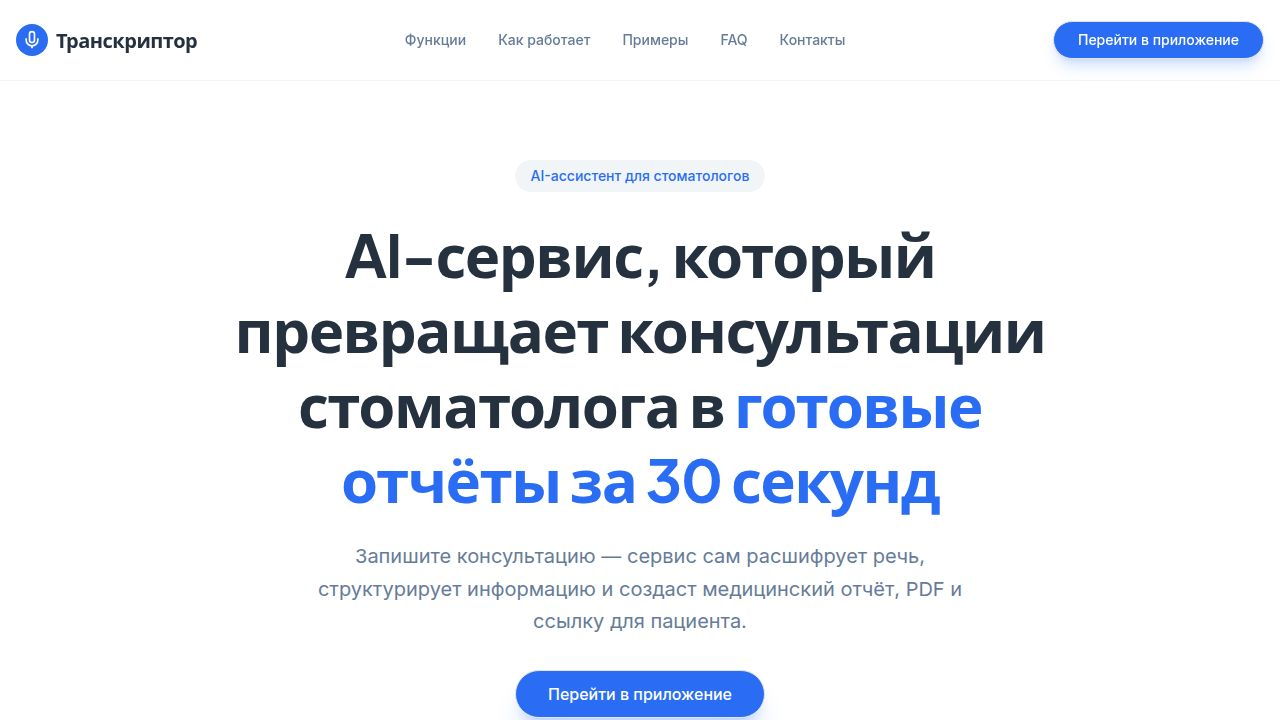
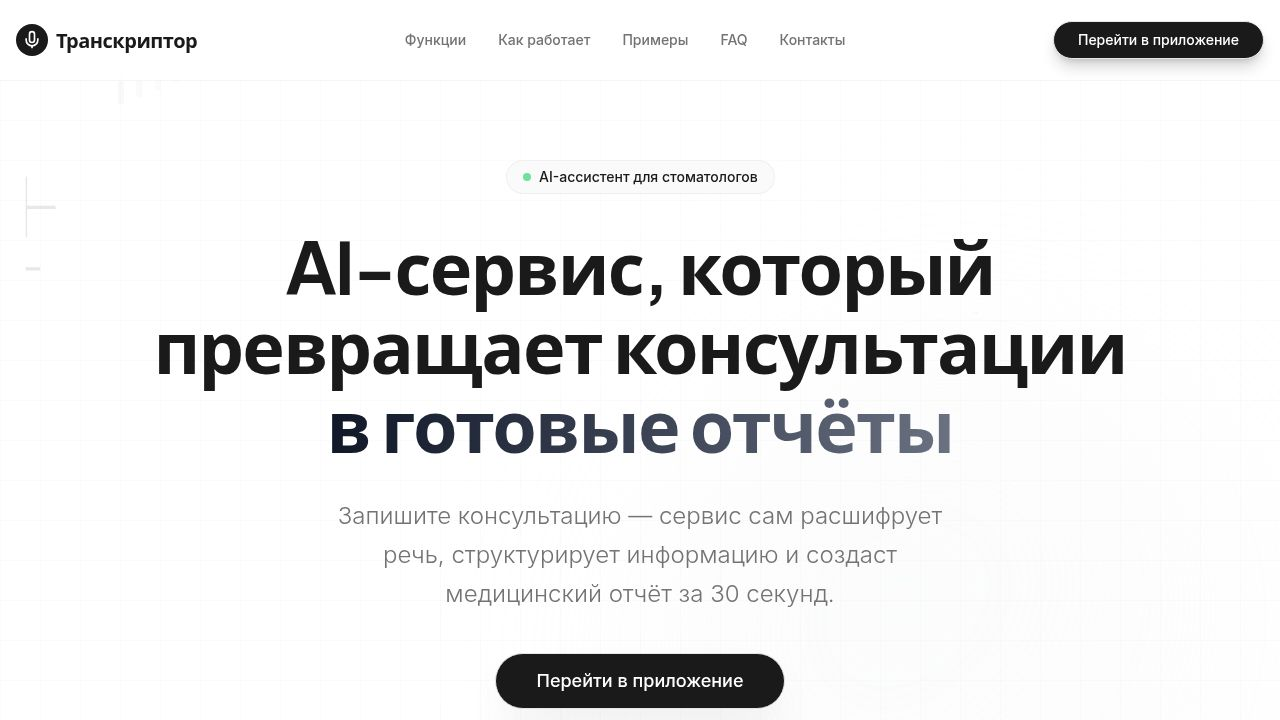
Add a large animated audio visualization behind the headline
Replaces a small decorative element with a full-width animated graphic representing audio input and AI data flow, styled with monochrome transparency.

Replit-Commit-Author: Agent
Replit-Commit-Session-Id: 5e15dced-e785-4765-9f0b-f0109551193c
Replit-Commit-Checkpoint-Type: full_checkpoint
Replit-Commit-Event-Id: 96bfdabc-855d-42f6-8e2f-6d3a9303065f
Replit-Commit-Screenshot-Url: https://storage.googleapis.com/screenshot-production-us-central1/eeb8d4c4-7ec0-4b03-830f-3e964ba1e5f5/5e15dced-e785-4765-9f0b-f0109551193c/WAJrBNJ
Replit-Helium-Checkpoint-Created: true

diff --git a/client/src/components/landing/Hero.tsx b/client/src/components/landing/Hero.tsx
@@ -39,7 +39,120 @@ export default function Hero() {
               AI-ассистент для стоматологов
             </motion.div>
             
-            <div className="relative inline-block">
+            <div className="relative inline-block w-full">
+              {/* Massive Background Element - Audio/AI Fusion */}
+              <div className="absolute top-1/2 left-1/2 -translate-x-1/2 -translate-y-1/2 w-[120%] h-[300%] pointer-events-none -z-10 flex items-center justify-center opacity-40 md:opacity-100">
+                <svg viewBox="0 0 800 400" className="w-full h-full text-primary/5">
+                  <defs>
+                    <linearGradient id="waveGradient" x1="0" y1="0" x2="1" y2="0">
+                      <stop offset="0%" stopColor="currentColor" stopOpacity="0" />
+                      <stop offset="50%" stopColor="currentColor" stopOpacity="1" />
+                      <stop offset="100%" stopColor="currentColor" stopOpacity="0" />
+                    </linearGradient>
+                    <mask id="fadeMask">
+                       <rect x="0" y="0" width="800" height="400" fill="url(#waveGradient)" />
+                    </mask>
+                  </defs>
+                  
+                  {/* Abstract Microphone Shape - Central Pillar */}
+                  <g className="translate-x-[400] translate-y-[200]">
+                     <motion.path 
+                       d="M-40,-80 L40,-80 L40,80 L-40,80 Z" 
+                       fill="none" 
+                       stroke="currentColor" 
+                       strokeWidth="2" 
+                       className="text-primary/10"
+                       rx="40"
+                       initial={{ pathLength: 0, opacity: 0 }}
+                       animate={{ pathLength: 1, opacity: 1 }}
+                       transition={{ duration: 2, ease: "easeInOut" }}
+                     />
+                     <motion.path 
+                        d="M-20,100 L20,100 M0,80 L0,140 M-30,140 L30,140"
+                        stroke="currentColor"
+                        strokeWidth="2"
+                        className="text-primary/10"
+                        initial={{ pathLength: 0 }}
+                        animate={{ pathLength: 1 }}
+                        transition={{ duration: 2, delay: 0.5 }}
+                     />
+                  </g>
+
+                  {/* Animated Sound Waves / AI Data Flow */}
+                  {[...Array(20)].map((_, i) => (
+                    <motion.g key={i} className="translate-x-[400] translate-y-[200]">
+                       {/* Left Wave */}
+                       <motion.rect 
+                         x={-60 - (i * 12)} 
+                         y={-50} 
+                         width="4" 
+                         height="100" 
+                         rx="2"
+                         fill="currentColor"
+                         className="text-primary/10"
+                         initial={{ scaleY: 0.1, opacity: 0 }}
+                         animate={{ 
+                           scaleY: [0.2, 1, 0.2],
+                           opacity: [0, 0.5, 0]
+                         }}
+                         transition={{ 
+                           duration: 3, 
+                           repeat: Infinity, 
+                           delay: i * 0.1,
+                           ease: "easeInOut"
+                         }}
+                       />
+                       {/* Right Wave */}
+                       <motion.rect 
+                         x={60 + (i * 12)} 
+                         y={-50} 
+                         width="4" 
+                         height="100" 
+                         rx="2"
+                         fill="currentColor"
+                         className="text-primary/10"
+                         initial={{ scaleY: 0.1, opacity: 0 }}
+                         animate={{ 
+                           scaleY: [0.2, 1, 0.2],
+                           opacity: [0, 0.5, 0]
+                         }}
+                         transition={{ 
+                           duration: 3, 
+                           repeat: Infinity, 
+                           delay: i * 0.1,
+                           ease: "easeInOut"
+                         }}
+                       />
+                    </motion.g>
+                  ))}
+                  
+                  {/* Floating AI Nodes connecting the waves */}
+                  {[...Array(15)].map((_, i) => (
+                    <motion.circle 
+                      key={`node-${i}`}
+                      r="2"
+                      fill="currentColor"
+                      className="text-primary/30"
+                      initial={{ 
+                        x: 400 + (Math.random() * 600 - 300),
+                        y: 200 + (Math.random() * 200 - 100),
+                        opacity: 0
+                      }}
+                      animate={{ 
+                        opacity: [0, 1, 0],
+                        scale: [0, 1.5, 0]
+                      }}
+                      transition={{
+                        duration: 4,
+                        repeat: Infinity,
+                        delay: Math.random() * 2,
+                        ease: "easeInOut"
+                      }}
+                    />
+                  ))}
+                </svg>
+              </div>
+
               <h1 className="text-5xl md:text-7xl font-bold leading-[1.1] mb-8 text-foreground tracking-tight relative z-10">
                 AI-сервис, который <br/>
                 превращает консультации <br/>
@@ -47,29 +160,6 @@ export default function Hero() {
                   в готовые отчёты
                 </span>
               </h1>
-              
-              {/* Stylish Element - Abstract AI Orbit */}
-              <motion.div 
-                className="absolute -top-8 -right-12 md:-right-24 w-24 h-24 md:w-32 md:h-32 pointer-events-none hidden md:block"
-                initial={{ opacity: 0, scale: 0.5 }}
-                animate={{ opacity: 1, scale: 1 }}
-                transition={{ delay: 0.5, duration: 0.8 }}
-              >
-                 <svg viewBox="0 0 100 100" className="w-full h-full animate-[spin_10s_linear_infinite]">
-                    <circle cx="50" cy="50" r="45" stroke="currentColor" strokeWidth="1" fill="none" className="text-gray-200" strokeDasharray="4 4" />
-                    <circle cx="50" cy="50" r="30" stroke="currentColor" strokeWidth="1" fill="none" className="text-gray-300" />
-                 </svg>
-                 <div className="absolute inset-0 flex items-center justify-center">
-                    <div className="w-3 h-3 bg-foreground rounded-full animate-ping" />
-                 </div>
-                 {/* Floating particle */}
-                 <motion.div 
-                    className="absolute top-0 left-1/2 w-4 h-4 bg-gray-900 rounded-full"
-                    animate={{ rotate: 360 }}
-                    transition={{ duration: 3, repeat: Infinity, ease: "linear" }}
-                    style={{ originY: "4rem", originX: "0.5rem" }}
-                 />
-              </motion.div>
             </div>
             
             <p className="text-xl md:text-2xl text-muted-foreground mb-10 max-w-2xl mx-auto leading-relaxed font-light">
